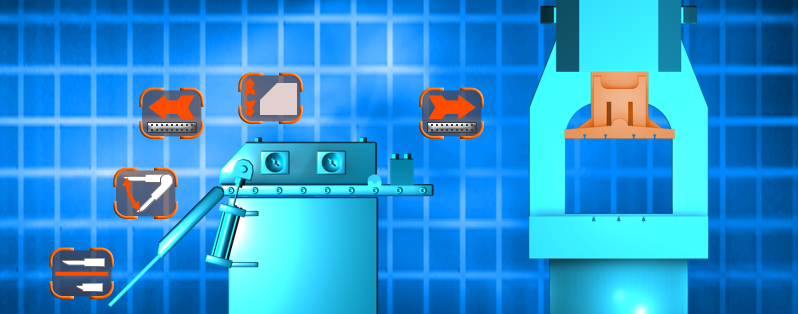
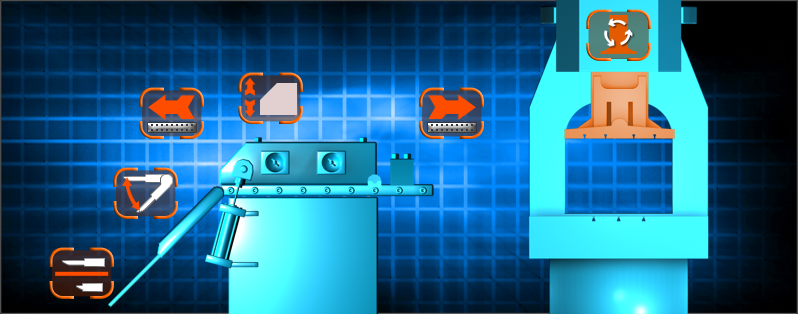
* Agora informa número de ciclos executados ao encerrar modo automático * Corrigida posição e ícone da indicação para ligar o motor da prensa + Adicionada flag DEBUG_CARREGAR_TELA que faz com que as telas da IHM sejam carregadas de um arquivo ao invés de serem geradas. Quando desativada, a tela é ge

diff --git a/cb_oper.c b/cb_oper.c
@@ -63,6 +63,9 @@ gboolean tmrExec(gpointer data)
     iniciando = 1;
     MaqConfigModo(MAQ_MODO_MANUAL);
 
+    sprintf(tmp, "Encerrando producao apos %d ciclos", maq_param.prensa.ciclos - ciclos_inicial);
+    Log(tmp, LOG_TIPO_TAREFA);
+
     gtk_label_set_text(GTK_LABEL(gtk_builder_get_object(builder, "lblExecMsg")), "Parado");
 
     wdg = GTK_WIDGET(gtk_builder_get_object(builder, "btnExecIniciarParar"));
@@ -119,8 +122,6 @@ void cbExecTarefa(GtkButton *button, gpointer user_data)
 
     gtk_button_set_label(GTK_BUTTON(wdg), modo_botao[1]);
   } else {
-    Log("Encerrando producao", LOG_TIPO_TAREFA);
-
     MaqConfigModo(MAQ_MODO_MANUAL);
     gtk_label_set_text(GTK_LABEL(gtk_builder_get_object(builder, "lblExecMsg")), "Terminando...");
     gtk_widget_set_sensitive(GTK_WIDGET(button), FALSE);
@@ -210,7 +211,7 @@ struct strCoordIHM {
     { 235,  70, 70, 55, cbManAplanAbrir   , "images/cmd-aplan-tampa-abrir.png"  },
     { 110, 165, 70, 55, cbManAplanSubir   , "images/cmd-aplan-ext-subir.png"    },
     {  45, 245, 70, 55, cbManAplanExpandir, "images/cmd-aplan-ext-expandir.png" },
-    { 579,   0, 80, 80, cbManPrsLigar     , "images/cmd-prensa-ligar.png"       },
+    { 582,   7, 70, 55, cbManPrsLigar     , "images/cmd-prensa-ligar.png"       },
     { 0, 0, 0, 0, NULL } },
 
     // Posição 001 - Tampa fechada, extensão abaixada, prolongamento avançado.
@@ -220,7 +221,7 @@ struct strCoordIHM {
     { 235,  70, 70, 55, cbManAplanAbrir   , "images/cmd-aplan-tampa-abrir.png"  },
     { 110, 165, 70, 55, cbManAplanSubir   , "images/cmd-aplan-ext-subir.png"    },
     {  45, 245, 70, 55, cbManAplanRetrair , "images/cmd-aplan-ext-expandir.png" },
-//    { 579, -30, 80, 80, cbManPrsLigar     , "images/cmd-prensa-ligar.png"       },
+    { 582,   7, 70, 55, cbManPrsLigar     , "images/cmd-prensa-ligar.png"       },
     { 0, 0, 0, 0, NULL } },
 
     // Posição 010 - Tampa fechada, extensão levantada, prolongamento recuado.
@@ -230,7 +231,7 @@ struct strCoordIHM {
     { 235,  70, 70, 55, cbManAplanAbrir   , "images/cmd-aplan-tampa-abrir.png"  },
     { 110, 215, 70, 55, cbManAplanDescer  , "images/cmd-aplan-ext-descer.png"   },
     {   0, 175, 70, 55, cbManAplanExpandir, "images/cmd-aplan-ext-expandir.png" },
-//    { 579, -30, 80, 80, cbManPrsLigar     , "images/cmd-prensa-ligar.png"       },
+    { 582,   7, 70, 55, cbManPrsLigar     , "images/cmd-prensa-ligar.png"       },
     { 0, 0, 0, 0, NULL } },
 
     // Posição 011 - Tampa fechada, extensão levantada, prolongamento avançado.
@@ -240,7 +241,7 @@ struct strCoordIHM {
     { 235,  70, 70, 55, cbManAplanAbrir   , "images/cmd-aplan-tampa-abrir.png"  },
     { 110, 215, 70, 55, cbManAplanDescer  , "images/cmd-aplan-ext-descer.png"   },
     {   0, 175, 70, 55, cbManAplanRetrair , "images/cmd-aplan-ext-expandir.png" },
-//    { 579, -30, 80, 80, cbManPrsLigar     , "images/cmd-prensa-ligar.png"       },
+    { 582,   7, 70, 55, cbManPrsLigar     , "images/cmd-prensa-ligar.png"       },
     { 0, 0, 0, 0, NULL } },
 
     // Posição 100 - Tampa aberta, extensão abaixada, prolongamento recuado.
@@ -251,7 +252,7 @@ struct strCoordIHM {
     { 315,  40, 70, 55, cbManAplanFechar  , "images/cmd-aplan-tampa-abrir.png"  },
     { 110, 165, 70, 55, cbManAplanSubir   , "images/cmd-aplan-ext-subir.png"    },
     {  45, 245, 70, 55, cbManAplanExpandir, "images/cmd-aplan-ext-expandir.png" },
-//    { 579, -30, 80, 80, cbManPrsLigar     , "images/cmd-prensa-ligar.png"       },
+    { 582,   7, 70, 55, cbManPrsLigar     , "images/cmd-prensa-ligar.png"       },
     { 0, 0, 0, 0, NULL } },
 
     // Posição 101 - Tampa aberta, extensão abaixada, prolongamento avançado.
@@ -262,7 +263,7 @@ struct strCoordIHM {
     { 315,  40, 70, 55, cbManAplanFechar  , "images/cmd-aplan-tampa-abrir.png"  },
     { 110, 165, 70, 55, cbManAplanSubir   , "images/cmd-aplan-ext-subir.png"    },
     {  45, 245, 70, 55, cbManAplanRetrair , "images/cmd-aplan-ext-expandir.png" },
-//    { 579, -30, 80, 80, cbManPrsLigar     , "images/cmd-prensa-ligar.png"       },
+    { 582,   7, 70, 55, cbManPrsLigar     , "images/cmd-prensa-ligar.png"       },
     { 0, 0, 0, 0, NULL } },
 
     // Posição 110 - Tampa aberta, extensão levantada, prolongamento recuado.
@@ -273,7 +274,7 @@ struct strCoordIHM {
     { 315,  40, 70, 55, cbManAplanFechar  , "images/cmd-aplan-tampa-abrir.png"  },
     { 110, 215, 70, 55, cbManAplanDescer  , "images/cmd-aplan-ext-descer.png"   },
     {   0, 175, 70, 55, cbManAplanExpandir, "images/cmd-aplan-ext-expandir.png" },
-//    { 579, -30, 80, 80, cbManPrsLigar     , "images/cmd-prensa-ligar.png"       },
+    { 582,   7, 70, 55, cbManPrsLigar     , "images/cmd-prensa-ligar.png"       },
     { 0, 0, 0, 0, NULL } },
 
     // Posição 111 - Tampa aberta, extensão levantada, prolongamento avançado.
@@ -284,7 +285,7 @@ struct strCoordIHM {
     { 315,  40, 70, 55, cbManAplanFechar  , "images/cmd-aplan-tampa-abrir.png"  },
     { 110, 215, 70, 55, cbManAplanDescer  , "images/cmd-aplan-ext-descer.png"   },
     {   0, 175, 70, 55, cbManAplanRetrair , "images/cmd-aplan-ext-expandir.png" },
-    //{ 579, -30, 80, 80, cbManPrsLigar     , "images/cmd-prensa-ligar.png"       },
+    { 582,   7, 70, 55, cbManPrsLigar     , "images/cmd-prensa-ligar.png"       },
     { 0, 0, 0, 0, NULL } },
 };
 
@@ -353,13 +354,14 @@ void CriarTelaIHM(struct strTelaIHM *tela, unsigned int offset, struct strImgIHM
   char arq[50];
   static unsigned int n = 0;
 
+#ifdef DEBUG_CARREGAR_TELA
   tela->offset = 0;
   tela->coord  = lst_coord;
 
   sprintf(arq, "images/maq.%d.png", n++);
   tela->pb = gdk_pixbuf_new_from_file(arq, NULL);
-
-/*  GdkPixbuf *pb, *copy_pb;
+#else
+  GdkPixbuf *pb, *copy_pb;
   unsigned int i = 0;
 
   tela->offset = offset;
@@ -368,6 +370,17 @@ void CriarTelaIHM(struct strTelaIHM *tela, unsigned int offset, struct strImgIHM
   tela->pb = gdk_pixbuf_new_from_file_at_scale(lst_img[0].arq,
       lst_img[0].posx + 2*tela->offset, lst_img[0].posy + 2*tela->offset,
       FALSE, NULL);
+
+// Carrega a nova imagem
+  pb = gdk_pixbuf_new_from_file_at_scale(lst_img[0].arq,
+      lst_img[0].posx, lst_img[0].posy,
+      FALSE, NULL);
+
+// Agrega as duas imagens e remove a referencia a nova imagem
+  gdk_pixbuf_composite(pb, tela->pb, tela->offset, tela->offset,
+      lst_img[0].posx, lst_img[0].posy, tela->offset, tela->offset, 1, 1,
+      GDK_INTERP_BILINEAR, 255);
+  gdk_pixbuf_unref(pb);
 
   while(lst_img[++i].arq != NULL) {
     LoadIntoPixbuf(tela->pb, lst_img[i].arq, lst_img[i].posx + tela->offset, lst_img[i].posy + tela->offset, lst_img[i].scalex, lst_img[i].scaley, LOADPB_REFPOS_DEFAULT);
@@ -387,7 +400,8 @@ void CriarTelaIHM(struct strTelaIHM *tela, unsigned int offset, struct strImgIHM
 //  tela->pb = copy_pb;
 
   sprintf(arq, "maq.%d.png", n++);
-  gdk_pixbuf_save(pb, arq, "png", NULL, NULL);*/
+  gdk_pixbuf_save(pb, arq, "png", NULL, NULL);
+#endif
 }
 
 void DesenharTelaIHM(GtkWidget *widget, struct strTelaIHM *tela)

diff --git a/defines.h b/defines.h
@@ -31,6 +31,9 @@
 // Ativar a linha abaixo para não conectar à POP
 #define DEBUG_PC_NOETH
 
+// Ativar a linha abaixo para carregar a tela de um arquivo ao invés de as criar
+#define DEBUG_CARREGAR_TELA
+
 // Senha master do sistema usada quando não há conexão com o BD
 #define SENHA_MASTER          "wFF9jghA.pg"
 #define LEMBRETE_SENHA_MASTER "Senha default"

diff --git a/main.c b/main.c
@@ -840,7 +840,7 @@ uint32_t IHM_Init(int argc, char *argv[])
   mainDB.nome_db = "cv";
   }
 #else
-  mainDB.server  = "192.168.0.5";
+  mainDB.server  = "interno.tecnequip.com.br";
   mainDB.user    = "root";
   mainDB.passwd  = "y1cGH3WK20";
   mainDB.nome_db = "cv";
